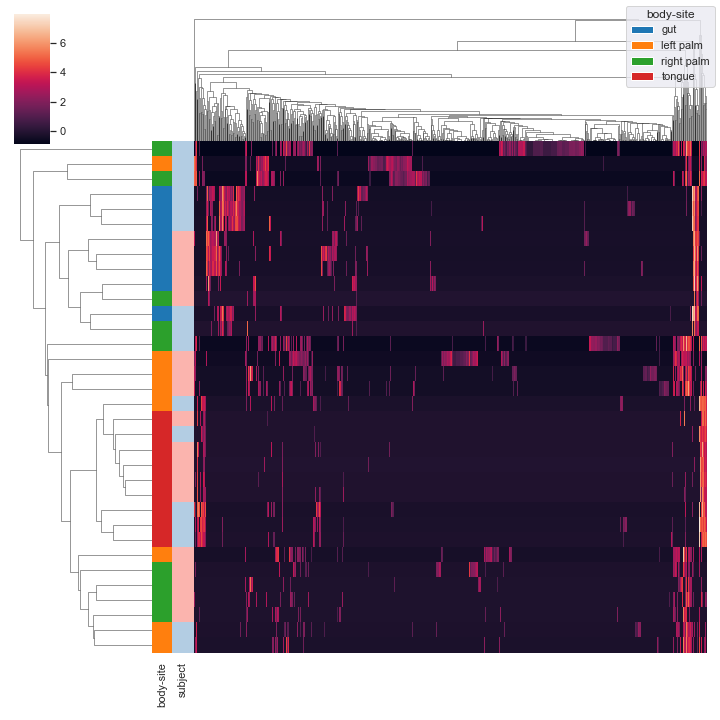
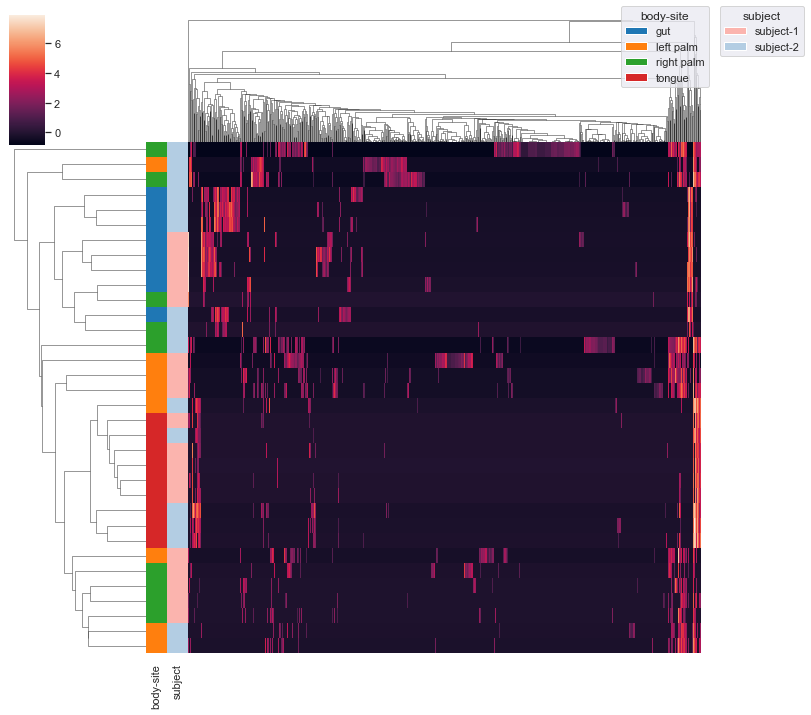
Update docs

diff --git a/dokdo/api/clustermap.py b/dokdo/api/clustermap.py
@@ -337,9 +337,13 @@ def clustermap(
 
     .. image:: images/clustermap-3.png
 
-    We can add an additional grouping variable ``subject``. Note that
-    ``xticklabels`` and ``yticklabels`` are extra keyword arguments that
-    are passed to :meth:`seaborn.clustermap`.
+    We can add an additional grouping variable ``subject``. This may require
+    you to use ``bbox_inches='tight'`` option in the :meth:`plt.savefig`
+    method when saving the figure as a file (e.g. PNG) because otherwise
+    there could be weird issues with the legends (because there are now two
+    legends instead of just one). Additionally, note that ``xticklabels``
+    and ``yticklabels`` are extra keyword arguments that are passed to
+    :meth:`seaborn.clustermap`.
 
     .. code:: python3
 
@@ -350,6 +354,7 @@ def clustermap(
                          hue2='subject',
                          xticklabels=False,
                          yticklabels=False)
+        plt.savefig('out.png', bbox_inches='tight')
 
     .. image:: images/clustermap-4.png
 
